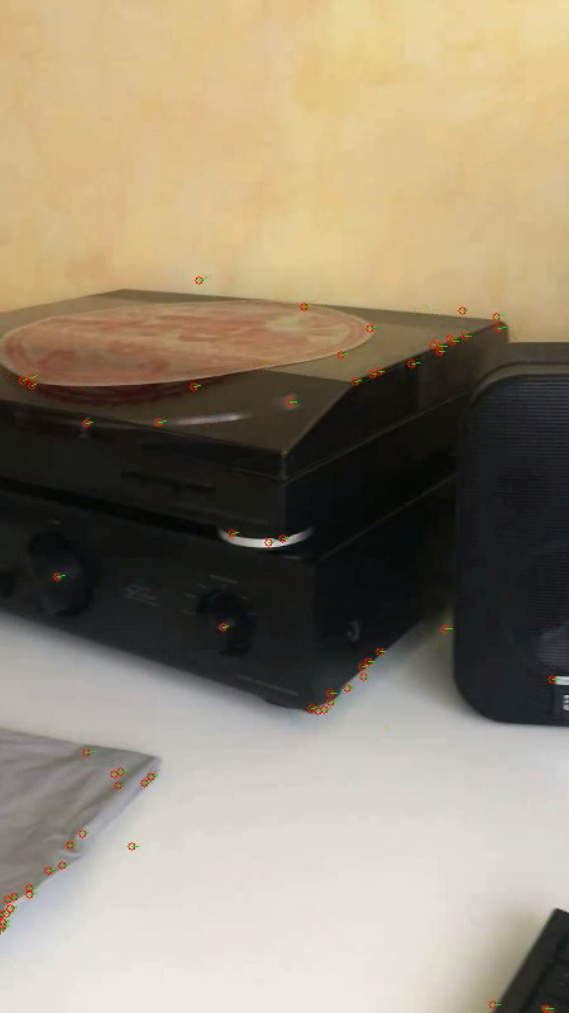
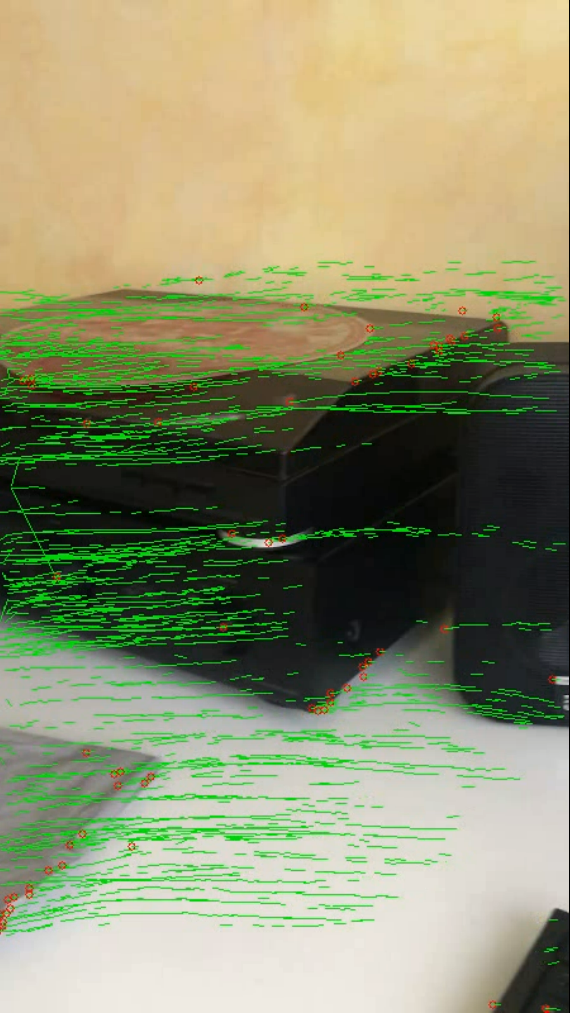
Updated visualization of traces.

diff --git a/optical_flow.py b/optical_flow.py
@@ -5,7 +5,7 @@ import numpy as np
 import matplotlib.pyplot as plt
 
 # choose a feature:
-FEATURE = 'Harris'	# 'Harris' or 'SIFT'
+FEATURE = 'SIFT'	# 'Harris' or 'SIFT'
 OUTPUT_TO_FILE = True
 OUTPUT_FILE_NAME = '../../Videos/OF_trace_with_'+FEATURE+'.avi'
 
@@ -23,6 +23,9 @@ former_frame = []
 lk_params = dict(winSize=(15,15), maxLevel=2, criteria=(cv2.TERM_CRITERIA_EPS | cv2.TERM_CRITERIA_COUNT, 10, 0.02))		# 10 is the number of reference points
 
 # open object file
+frame_num = 0
+all_rlv_pts = []
+all_fm_rlv  = []
 file = cv2.VideoCapture('../../Videos/output.avi')
 fourcc = cv2.VideoWriter_fourcc(*'XVID')
 if(OUTPUT_TO_FILE): out = cv2.VideoWriter(OUTPUT_FILE_NAME, fourcc, 40.0, (450,800))
@@ -69,6 +72,11 @@ while(file.isOpened()):
 					it += 1
 			relevant_pts = relevant_pts[:it]
 			former_relevant_pts = former_relevant_pts[:it]
+			all_rlv_pts.append(relevant_pts)
+			all_fm_rlv.append(former_relevant_pts)
+			if(len(all_rlv_pts)>40):
+				all_rlv_pts.pop(0)
+				all_fm_rlv.pop(0)
 		# visualization
 		'''
 		for point in points:
@@ -76,13 +84,15 @@ while(file.isOpened()):
 		'''
 		#cv2.drawKeypoints(frame,key_points,frame)							# SIFT features
 		if(len(former_frame)):												# optical flow trace
-			for i, (pt, f_pt) in enumerate(zip(relevant_pts, former_relevant_pts)):
-				cv2.circle(frame, (pt[0], pt[1]), 3, (0,0,255), 1)
-				cv2.line(frame, (pt[0],pt[1]), (f_pt[0],f_pt[1]), (0, 255, 0), 1)
+			for j, (rlv_pts, fm_rlv_pts) in enumerate(zip(all_rlv_pts, all_fm_rlv)):
+				for i, (pt, f_pt) in enumerate(zip(rlv_pts, fm_rlv_pts)):
+					if(j==len(all_rlv_pts)-1): cv2.circle(frame, (pt[0], pt[1]), 3, (0,0,255), 1)
+					cv2.line(frame, (pt[0],pt[1]), (f_pt[0],f_pt[1]), (0, 255, 0), 1)
 		cv2.imshow('Motion', frame)
 		if(OUTPUT_TO_FILE): out.write(frame)
 		former_frame = frame_g
 		former_points = points
+		frame_num += 1
 	else:
 		break
 	if(cv2.waitKey(25) &0xFF == ord('q')):

diff --git a/README.md b/README.md
@@ -31,6 +31,11 @@ Following steps are envolved in calculation of optical flow:
 <br /><p align="center"><img src="https://github.com/Hezihao/cv_scripts/blob/master/IMG/SIFT_features.png" width="325" height="400"></p>
 3) Calculated optical flow:
 <br />Harris
+<br /><p align="center"><img src="https://github.com/Hezihao/cv_scripts/blob/master/IMG/of_frame_with_Harris.png" width="325" height="400"></p>
+<br />SIFT
+<br /><p align="center"><img src="https://github.com/Hezihao/cv_scripts/blob/master/IMG/of_frame_with_SIFT.png" width="325" height="400"></p>
+4) Overall traces
+<br />Harris
 <br /><p align="center"><img src="https://github.com/Hezihao/cv_scripts/blob/master/IMG/of_trace_with_Harris.png" width="325" height="400"></p>
 <br />SIFT
 <br /><p align="center"><img src="https://github.com/Hezihao/cv_scripts/blob/master/IMG/of_trace_with_SIFT.png" width="325" height="400"></p>
